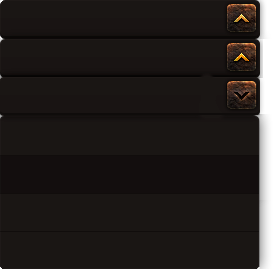
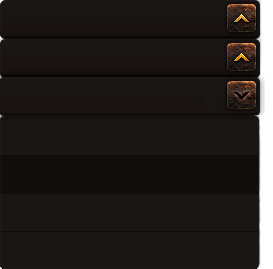
1.4.1-STABLE

Changed region(s): [[0.9377, 0.0, 0.9963, 1.0]]

diff --git a/src/main/java/org/foxesworld/Launcher.java b/src/main/java/org/foxesworld/Launcher.java
@@ -3,7 +3,6 @@ package org.foxesworld;
 import com.google.gson.Gson;
 import org.foxesworld.engine.Engine;
 import org.foxesworld.engine.gui.GuiBuilder;
-import org.foxesworld.engine.gui.components.dropBox.DropBox;
 import org.foxesworld.engine.gui.components.frame.OptionGroups;
 import org.foxesworld.engine.gui.styles.StyleProvider;
 import org.foxesworld.launcher.auth.AuthListener;
@@ -26,7 +25,6 @@ import java.util.Map;
 import java.util.Objects;
 public class Launcher extends Engine implements AuthListener {
     private final Engine engine;
-    private News news;
     private final Auth auth;
     private User user;
     public static void main(String[] args) {
@@ -59,7 +57,7 @@ public class Launcher extends Engine implements AuthListener {
     @Override
     public void onPanelsBuilt() {
         if (!isInit()) {
-            getSOUND().playSound("music", "inLauncher");
+            getSOUND().playSound("music", "inLauncher", true);
         }
     }
     @Override
@@ -82,7 +80,7 @@ public class Launcher extends Engine implements AuthListener {
         setGuiBuilder(new GuiBuilder(this));
         this.getGuiBuilder().getComponentFactory().setComponentFactoryListener(new Components(this));
         getGuiBuilder().setGuiBuilderListener(this);
-        this.news = new News(this);
+       setNews(new News(this));
         this.getGuiBuilder().buildGui(this.getGuiProperties().getFrameTpl(), this.getFrame().getRootPanel());
         loadMainPanel(this.getGuiProperties().getMainFrame());
 
@@ -91,11 +89,7 @@ public class Launcher extends Engine implements AuthListener {
         this.setUser(new User(this));
         new Config(this);
         setInit(true);
-        //if(!this.getCONFIG().isLoadNews()) {
-        //    this.getFrame().setFrameSize(350, 500);
-        //}
     }
-
     @Override
     public String appPath() {
         try {
@@ -116,7 +110,6 @@ public class Launcher extends Engine implements AuthListener {
     public void setUser(User user) {
         this.user = user;
     }
-
     @Override
     public void onLogin(Map<String, String> authCredentials) {
     }

diff --git a/src/main/java/org/foxesworld/launcher/auth/Auth.java b/src/main/java/org/foxesworld/launcher/auth/Auth.java
@@ -5,7 +5,6 @@ import com.google.gson.reflect.TypeToken;
 import org.foxesworld.Launcher;
 import org.foxesworld.engine.Engine;
 import org.foxesworld.engine.config.Config;
-import org.foxesworld.engine.gui.components.dropBox.DropBox;
 import org.foxesworld.engine.server.ServerAttributes;
 import org.foxesworld.engine.utils.HTTP.HTTPrequest;
 import org.foxesworld.launcher.server.ServerParser;
@@ -76,7 +75,7 @@ public class Auth {
                 authCredentials.put(entry.getKey(), entry.getValue().toString());
             }
             engine.getLOGGER().info(authCredentials.get("login") + " authorised!");
-            this.loadUserServers();
+            this.loadUserServers(authCredentials.get("login"));
             if (CONFIG.getLogin() == null && "true".equals(authCredentials.get("rememberMe"))) {
                 saveAuthCredentials(authCredentials);
             }
@@ -88,16 +87,15 @@ public class Auth {
         return status;
     }
 
-    private void loadUserServers() {
+    private void loadUserServers(String login) {
         int i = 0;
         ServerParser serverParser = new ServerParser(getEngine());
-        userServersAttributes = serverParser.parseServers(getAuthCredentials("login"));
+        userServersAttributes = serverParser.parseServers(login);
         userServersArray = new String[serverParser.getServersNum()];
         for (ServerAttributes serverAttributes : userServersAttributes) {
             userServersArray[i] = serverAttributes.getServerName() + ' ' + serverAttributes.getServerVersion();
             i++;
         }
-       //this.engine.getGuiBuilder().getDropBoxes().get("serverBox").setValuesAndSelectedIndex(userServersArray, this.CONFIG.getSelectedServer());
     }
 
     public void logOut(){

diff --git a/src/main/java/org/foxesworld/launcher/news/News.java b/src/main/java/org/foxesworld/launcher/news/News.java
@@ -5,7 +5,7 @@ import org.foxesworld.launcher.news.provider.NewsProvider;
 
 import javax.swing.*;
 
-public class News {
+public class News extends org.foxesworld.engine.news.News {
     private final Engine engine;
     private NewsProvider newsProvider;
     public News(Engine engine){
@@ -16,7 +16,8 @@ public class News {
         }
     }
 
-    private void buildPanel(){
+    @Override
+    protected void buildPanel(){
         JPanel childPanel = new NewsPanel(this.newsProvider.fetchNews());
         childPanel.setOpaque(false);
         childPanel.setBounds(0, 30, 500, 470);

diff --git a/src/main/java/org/foxesworld/launcher/user/User.java b/src/main/java/org/foxesworld/launcher/user/User.java
@@ -59,7 +59,7 @@ public class User implements DropBoxListener {
             } catch (NoSuchFieldException | IllegalAccessException ignored) {
             }
         }
-        userLabels.get("userHead").setIcon(new ImageIcon(ImageUtils.base64ToBufferedImage(this.getUserHead())));
+        userLabels.get("userHead").setIcon(new ImageIcon(ImageUtils.getRoundedImage(ImageUtils.base64ToBufferedImage(this.getUserHead()), 50)));
         userLabels.get("userGroup").setText(this.lang.getString("group.group-" + this.auth.getAuthCredentials("group")));
     }
 